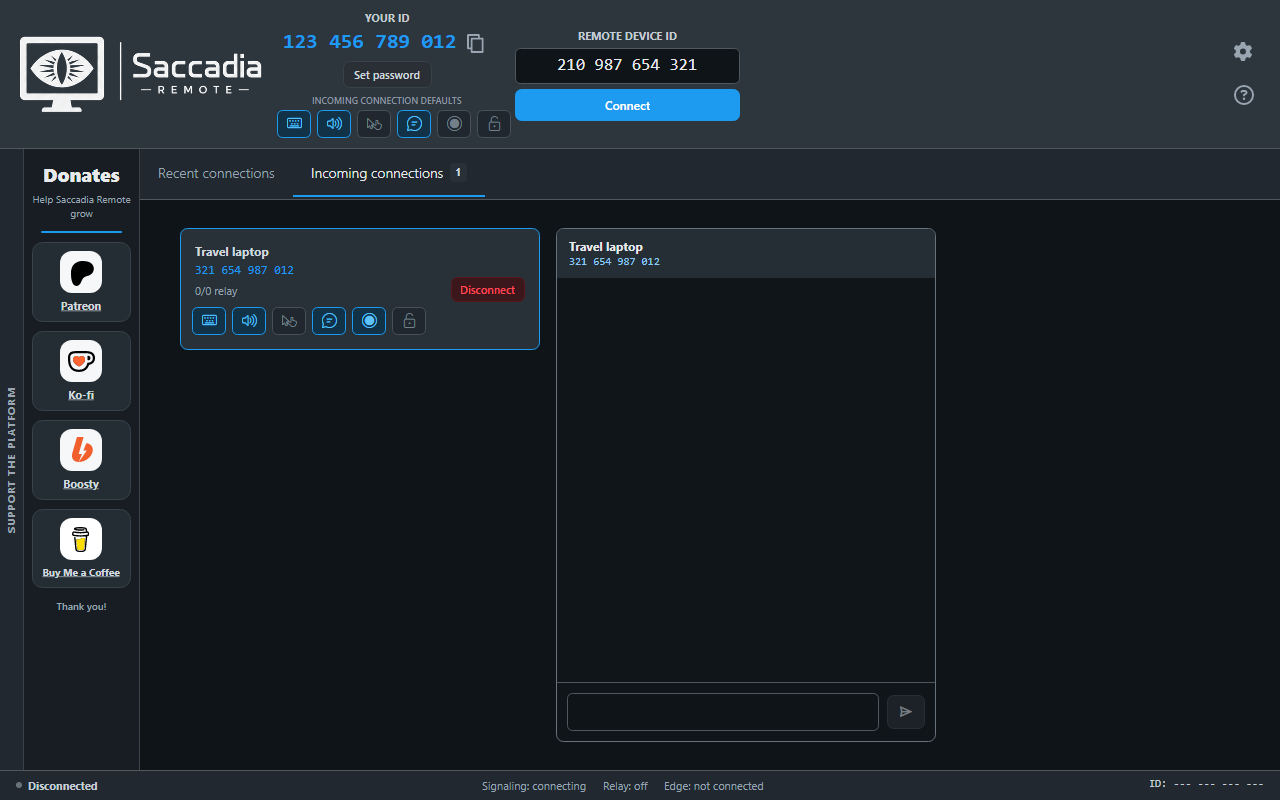
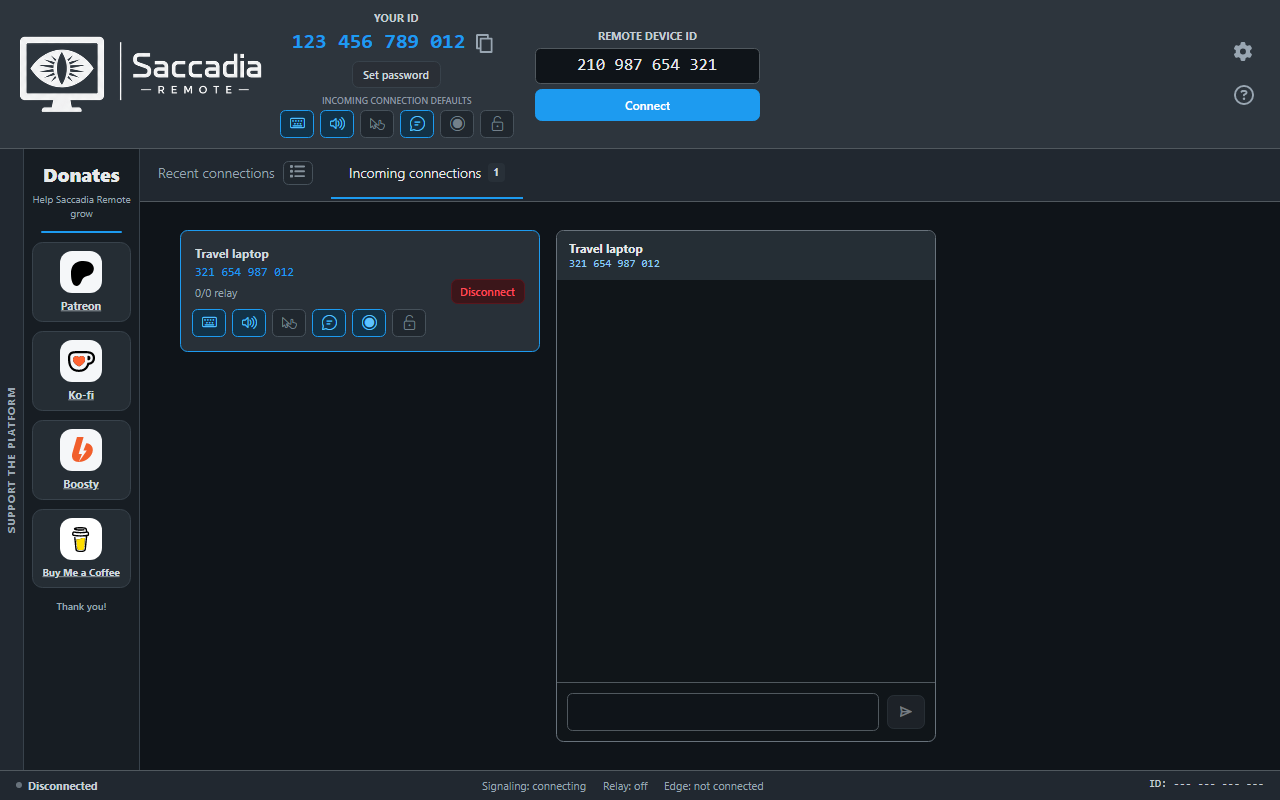
Update client user guide for 0.2.75
Document Recent connections list mode, tray restart behavior, diagnostic log cleanup, and local relay health. Refresh the current main-window captures and add a compact-list screenshot.

diff --git a/USER-GUIDE.md b/USER-GUIDE.md
@@ -14,10 +14,12 @@ private connection information is included.
 - [Understand the main window](#understand-the-main-window)
 - [Prepare a computer for incoming access](#prepare-a-computer-for-incoming-access)
 - [Connect to another computer](#connect-to-another-computer)
+- [Manage recent connections](#manage-recent-connections)
 - [Approve an incoming connection](#approve-an-incoming-connection)
 - [Control an active remote session](#control-an-active-remote-session)
 - [Use chat, recording, clipboard, and files](#use-chat-recording-clipboard-and-files)
 - [Change application settings](#change-application-settings)
+- [Review diagnostic logs and relay health](#review-diagnostic-logs-and-relay-health)
 - [Troubleshoot a connection](#troubleshoot-a-connection)
 - [Use Saccadia Remote safely](#use-saccadia-remote-safely)
 
@@ -85,13 +87,22 @@ The top part of the window contains the controls needed for most connections:
    can be changed for each active incoming connection.
 4. **Remote Device ID** is where you enter the host ID you want to reach.
 5. **Connect** starts a connection attempt. **Cancel** stops an attempt that is still waiting.
-6. **Recent connections** keeps useful local history. A tile can show availability, saved
-   authorization, a favorite marker, a custom name, and the last connection time.
+6. **Recent connections** keeps useful local history. A tile or compact row can show availability,
+   saved authorization, a favorite marker, a custom name, and the last connection time. The list
+   button in the tab header switches between tiles and rows.
 7. The bottom status bar shows whether the client is connected to signalling, whether its relay is
    available, and which Edge currently carries its signalling connection.
 
 The gear button opens settings. The question-mark button opens the public project documentation in
-your browser. Donation links are optional and do not affect application features.
+your browser. When diagnostic logging is enabled, a log-list button appears below Help and opens the
+local logs and relay-health window. Donation links are optional and do not affect application
+features.
+
+Closing the main window normally returns Saccadia Remote to the Windows notification area instead
+of ending it. The tray menu provides **Open**, **Restart**, and **Exit**. **Restart** may request
+Windows administrator confirmation because it restarts the Saccadia host and relay services before
+opening a fresh client window. If confirmation is cancelled or a service cannot restart, the
+original client remains open and reports the problem.
 
 Availability is refreshed periodically. A recently disconnected computer can take a short time to
 change from online to unavailable, and a computer that has just opened the application may need a
@@ -153,6 +164,31 @@ the key icon on a recent-connection tile.
 
 Selecting a recent-connection tile fills its ID and starts the same normal connection process. Use
 the star to keep an important computer easy to find and the pencil to give it a local friendly name.
+
+## Manage recent connections
+
+Recent connections are stored locally for convenience. The application retains up to 30 entries,
+placing favorites first and then the most recently used computers.
+
+Tiles are the default. Select the list button in the **Recent connections** tab header to switch to
+compact rows; select it again to return to tiles. This choice is remembered after the application
+restarts.
+
+![Recent connections displayed as compact rows](assets/user-guide/recent-connections-list.png)
+
+Each tile and row provides the same information and actions:
+
+- the star marks or unmarks a favorite;
+- the colored status dot shows the last known availability;
+- selecting the ID, name, time, or another free area starts a connection;
+- the key shows that saved authorization exists and lets you remove it;
+- the pencil changes the local friendly name;
+- the reset symbol restores the computer name reported by the remote device;
+- the remove button deletes the entry from local history.
+
+Selecting an action button performs only that action; it does not start a connection. Removing a
+history entry does not uninstall Saccadia Remote, change the remote computer, or revoke saved
+authorization; use the key action separately when you also want to remove that credential.
 
 ## Approve an incoming connection
 
@@ -269,6 +305,33 @@ Wake-on-LAN is optional and publishes the network profile needed to request that
 woken. Leave it disabled if you do not need it. Diagnostic logging is local and disabled by default;
 logs can contain connection metadata, so review them before sharing.
 
+## Review diagnostic logs and relay health
+
+Select **Enable diagnostic logging** in Settings and then select **Save** when you need to
+investigate a problem. A log-list button then appears below Help in the main window. Select it to
+open the protected **Diagnostic logs** window.
+
+The left side lists Saccadia Remote log files. Select one file to display its readable text preview
+on the right. You can select and copy text from the preview. The checkbox beside each file marks it
+for a file operation, and the checkbox in the list header selects or clears every listed file.
+
+- **Copy selected** places the checked complete log files on the clipboard so they can be pasted
+  into a folder or attached to a support message. If nothing is checked, the button becomes
+  **Copy all**.
+- **Delete selected** asks for confirmation and then cleans only the checked files. A log currently
+  being written may be cleared and kept in place instead of being removed. Other failures are
+  reported without stopping cleanup of the remaining files.
+- The preview may show only the newest part of a very large log, but Copy exports the complete file.
+
+The relay panel at the bottom reports the local Windows service, control channel, listener, active
+relay pairs, UDP registration, warmup results, and the latest acknowledgement or failure. These
+details help distinguish a local relay problem from a general signalling problem; opening the
+window does not contact the server for additional diagnostics.
+
+Logs can contain device IDs, connection times, network addresses, and error details. Read them
+before sharing, send only the files needed for the investigation, and disable logging again when
+you no longer need it.
+
 ## Troubleshoot a connection
 
 ### The host appears unavailable
@@ -293,6 +356,16 @@ logs can contain connection metadata, so review them before sharing.
 - For control, clipboard, or files, verify the first permission button.
 - For sound, chat, cursor display, recording, or protected UI, verify its separate button.
 - Open the session menu and check local Audio, bitrate, quality, and resolution choices.
+
+### A relay is unavailable or missing
+
+- Enable diagnostic logging, save Settings, and open the log-list button below Help.
+- In the relay panel, check that the Windows service is running, the control channel is available,
+  and UDP rendezvous is registered.
+- Review the latest failure and warmup counts. **Restart** in the tray menu restarts the client and
+  its local host/relay services and may restore a transient local state, but repeated failures
+  should be investigated rather than hidden by disabling the firewall or other system protection.
+- Copy only the relevant logs if you need to send the problem to support.
 
 ### The picture or sound is unstable
 
